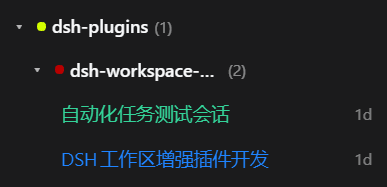
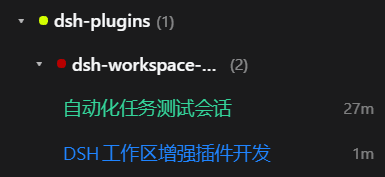
docs: 更新README、CHANGELOG

diff --git a/README.md b/README.md
@@ -2,13 +2,14 @@
 
 该插件对 **DeepSeek Harness（DSH）** 的左侧工作区视图进行了增强重绘并添加功能：收藏、颜色标签、工作区自由拖动排序、排序与置顶、会话状态灯与 Windows 通知。
 
-> 支持版本：>= 0.2.0-rc.1
+> 支持版本：>= 0.2.0-rc.1 
 
 ---
 ## 0.安装
 在 DSH Desktop 内安装：在 插件 - 添加插件 对话框内输入该插件包名`dsh-workspace-optimize`即可
 ![Add Plugin](./docs/add-plugin.png)
 通过 npm 安装：
+
 ```powershell
 npm i dsh-workspace-optimize
 ```
@@ -23,11 +24,22 @@ dsh plugin --profile web add dsh-workspace-optimize
 
 ### 侧栏
 
-- **增强侧栏切换**：默认开启插件自定义增强侧栏，可切换回原版侧栏
+- **增强侧栏切换**：默认开启插件自定义增强侧栏，可切换回原版侧栏；但由于原版侧栏缺少部分api支持，只能实现部分增强功能
+
+    ![workspace-default-optimize](.\docs\workspace-default-optimize.png)
+
 - **收藏、优先级、更改颜色**：同时为工作区文件夹和会话添加收藏、排序优先级和颜色
+
+    ![Color Highlight](.\docs\workspace-highlight-off.png)
+
 - **自定义颜色**：预设 9 色之外，可用原生取色器选择任意颜色（`#rrggbb`）
+
 - **色块高亮**（可选）：开启后工作区标题变为圆角色块（自动黑白字），并用同色竖线标出子项范围
+
+    ![Block Highlight](.\docs\workspace-highlight-on.png)
+
 - **工作区自由拖动排序**：拖动工作区标题行即可调整顺序，持久化到宿主，重启后保持
+
 - 增强侧栏已基本完全还原原版侧栏功能，保证操作习惯平滑过渡
 
 ### 会话状态
@@ -41,7 +53,10 @@ dsh plugin --profile web add dsh-workspace-optimize
   | 🟢 绿色常亮 | 已完成 | ![Light Working](./docs/workspace-light-success.png) |
 
 - 时间位置同步显示「等待审批 / 等待回答 / 计划待审 / 已完成」文字
+
 - **桌面提醒**：等待审批、等待回答、计划待审、完成、出错时发送系统通知（可配置通知类型、免打扰、窗口可见时是否提醒）
+
+    ![workspace-notice](.\docs\workspace-notice.png)
 
 ### 会话操作（悬停与右键）
 
@@ -54,13 +69,12 @@ dsh plugin --profile web add dsh-workspace-optimize
 - 分组方式：平铺分组 / 工作区树
 - 排序：最近更新 / 手动
 - 归档过滤：隐藏已归档 / 全部会话 / 仅已归档
-- **色块高亮**（设置项）：工作区颜色以圆角色块呈现，并带子项同色竖线
 
 
 
 ------
 
-## 使用
+## 2.使用
 
 ### 切换侧栏样式
 
@@ -87,9 +101,8 @@ dsh plugin --profile web add dsh-workspace-optimize
 - 打开「显示空白会话」后，它们的标题显示为「新建会话」，便于识别
 - 官方不支持删除会话，只能归档；本插件不提供删除
 
----
 
-## 设置项
+### 其他设置项
 
 设置页与 `/state` 中的 `settings` 字段一一对应：
 
@@ -109,7 +122,7 @@ dsh plugin --profile web add dsh-workspace-optimize
 
 ---
 
-## 通知
+## 3.通知
 
 - 来源：Host 监听宿主会话事件（`api-session/status`、`api-session/activity`、`api-session/error`、`session/event`、`approval/request`、`user-questions/request`），把事实推给浏览器半
 - 通道：SSE（`EventSource`）为主，失败时回退为轮询
@@ -123,7 +136,7 @@ dsh plugin --profile web add dsh-workspace-optimize
 
 ---
 
-## 数据与隐私
+## 4.数据与隐私
 
 - 本插件自己的数据是一个 JSON 文件：`%USERPROFILE%\.dsh\workspace-optimize-state.json`
   （Host 进程设置了 `DSH_PROFILE_DIR` 时落在该 profile 目录）
@@ -138,7 +151,6 @@ dsh plugin --profile web add dsh-workspace-optimize
 | 依赖 | 必需性 | 影响 |
 | --- | --- | --- |
 | DSH `0.2.x` | 必需 | 宿主版本 |
-| `@michengai/dsh-archive-manager` | 可选 | 提供收藏共享（两处星标一致）与跨工作区移动；缺失时收藏由本插件保存、移动入口隐藏 |
 | 官方 `Schedule` | 内置 | 有活跃定时任务时在会话行显示时钟标记 |
 | 通知权限 | 可选 | 被拒时降级为页面内提示 |
 
@@ -146,7 +158,7 @@ dsh plugin --profile web add dsh-workspace-optimize
 
 ---
 
-## 已知限制
+## 5.已知限制
 
 1. **不支持删除会话**：官方没有删除 API（只能归档），本插件同步该语义
 2. **行级子插槽不声明**：Archive Manager / Schedule 的会话行菜单在增强侧栏中不显示（Schedule 的时钟标记由本插件用官方数据自绘代替）
@@ -159,7 +171,7 @@ dsh plugin --profile web add dsh-workspace-optimize
 
 ---
 
-## 常见问题
+## 6.常见问题
 
 **切回官方侧栏后侧栏空白？**
 本插件注册时不声明子插槽，正常情况下撤销注册即可原地恢复官方侧栏。若遇到空白，用「设置 → 工作区增强 → 维护 → 重新加载界面」重载一次。
@@ -187,7 +199,7 @@ dsh plugin --profile web add dsh-workspace-optimize
 
 ---
 
-## 开发
+## 7.开发
 
 - 纯 ESM，无构建步骤：`index.js`（Host）与 `client.js`（浏览器，Module Loader 格式）
 - 语法检查：
@@ -221,8 +233,9 @@ docs/             设计文档
 
 ---
 
-## License
+## 8.License
 
 [MIT](LICENSE)
 
 本插件为社区项目，与 DeepSeek AI 官方无隶属关系。
+该插件由 DeepSeek-flash 参与开发。

diff --git a/CHANGELOG.md b/CHANGELOG.md
@@ -1,2 +1,13 @@
+# v0.2.0
+### 新功能
+- 为“计划待审”添加指示灯、提示文字和系统通知功能
+- 为会话悬停快速操作区添加 归档 按钮，为工作区悬停快速操作区添加 添加新对话 按钮
+- 新增 工作区文件夹 色块高亮模式
+- 为工作区文件夹添加拖动排序适配
+### 修复
+- 修复 会话状态指示灯更新 和 会话操作 操作延迟过高与可能发生回弹的问题
+- 修复 会话最后更新时间不显示的问题
+- 修复 新建对话时不在工作区内显示的问题
+
 # v0.1.0
 项目发布
